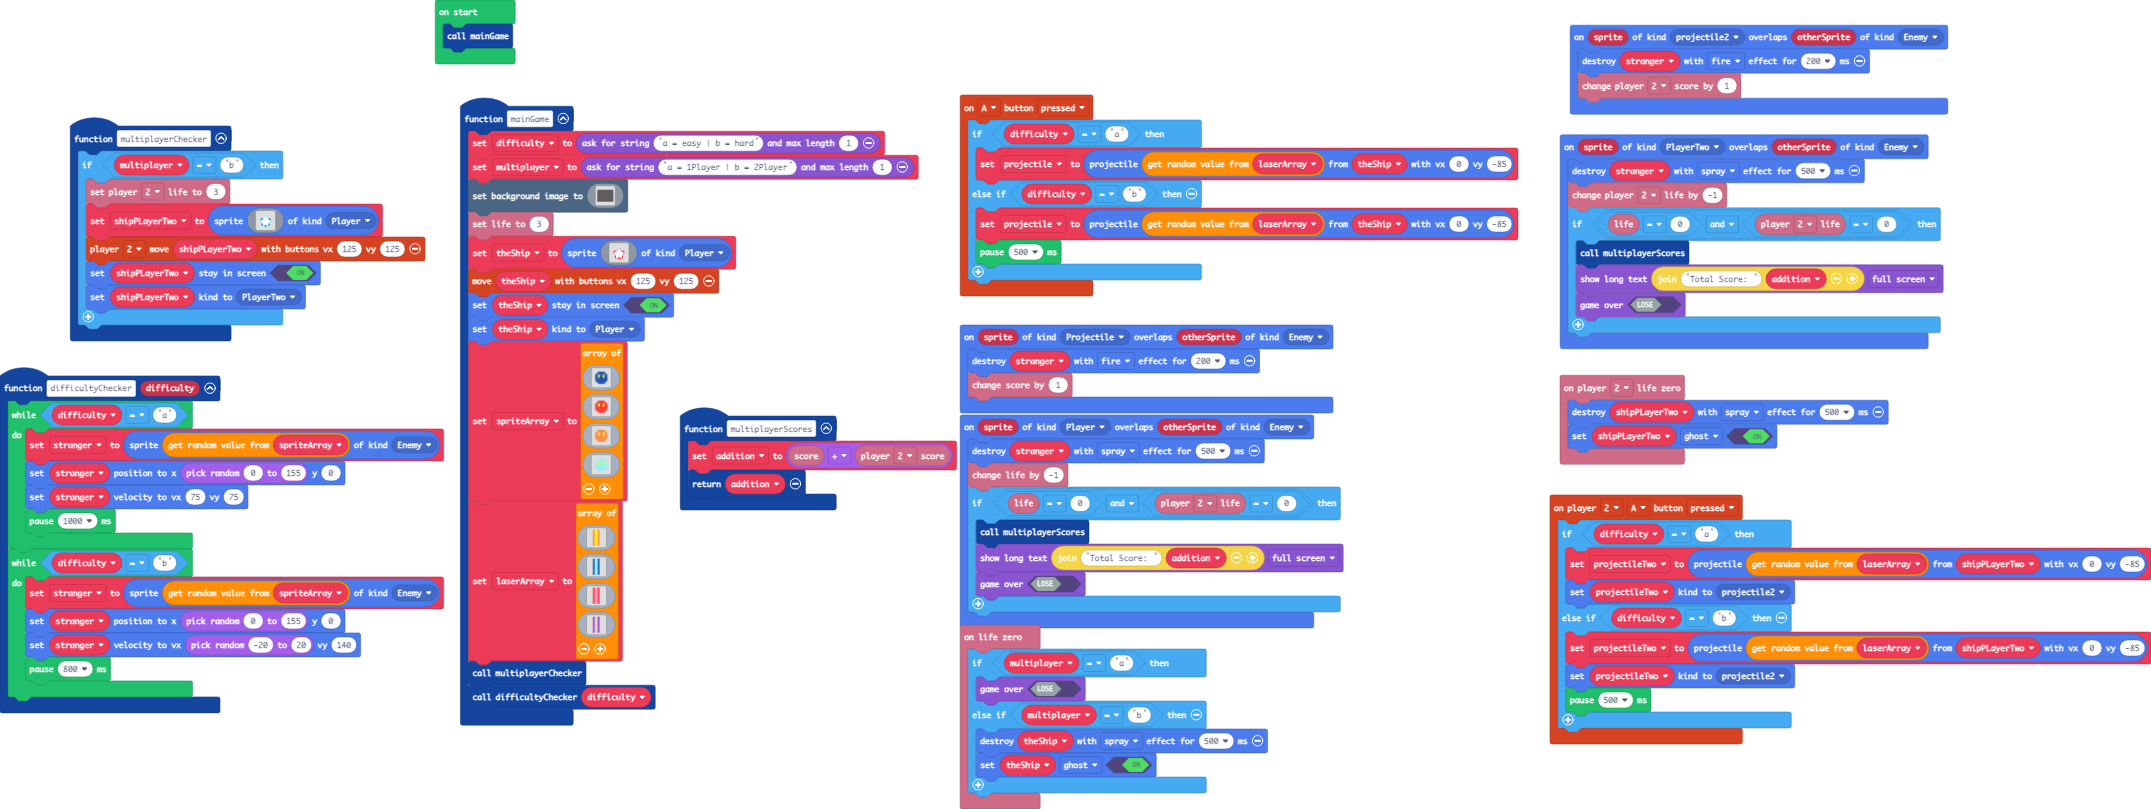
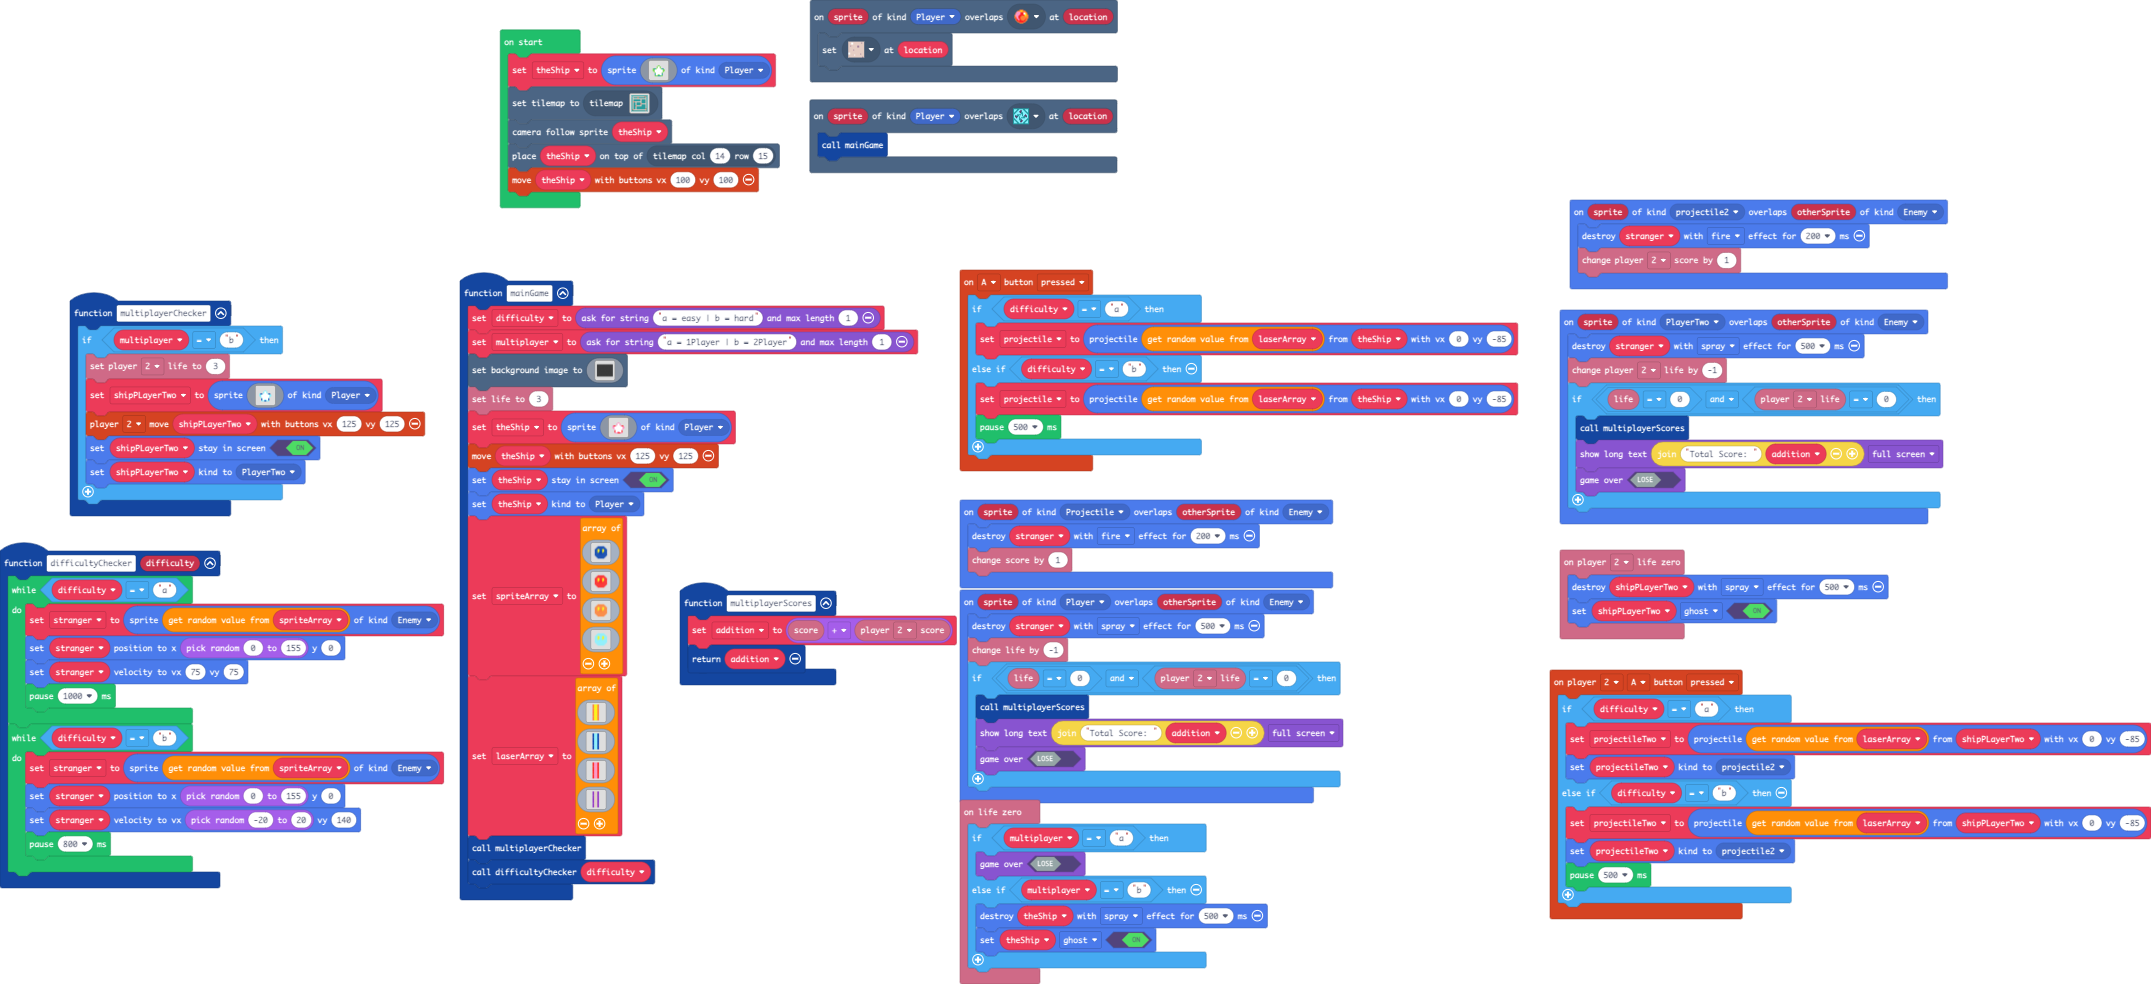
Update pxt.json, main.blocks, main.ts, tilemap.g.jres, tilemap.g.ts

diff --git a/tilemap.g.ts b/tilemap.g.ts
@@ -1,0 +1,39 @@
+// Auto-generated code. Do not edit.
+namespace myTiles {
+    //% fixedInstance jres blockIdentity=images._tile
+    export const transparency16 = image.ofBuffer(hex``);
+
+    helpers._registerFactory("tilemap", function(name: string) {
+        switch(helpers.stringTrim(name)) {
+            case "level1":
+            case "level1":return tiles.createTilemap(hex`1000100001010101010101010101010101010101030202020202020202020202020502010102010101010501010101010101020101020202020202020202020202020201010201010101010101020101010102010102010101010101010201010101020101020502020202020202010101010201010201010201010101020101010102010102010102010101010502020202020101020101020101010102010101010201010201010502020202020101010102010102010102010101010101010101020101020101020101010101010101010201010201010201010101010101010105010105020202020202020202020202020101010101010101010101010101010401`, img`
+2 2 2 2 2 2 2 2 2 2 2 2 2 2 2 2 
+. . . . . . . . . . . . . . . 2 
+2 . 2 2 2 2 . 2 2 2 2 2 2 2 . 2 
+2 . . . . . . . . . . . . . . 2 
+2 . 2 2 2 2 2 2 2 . 2 2 2 2 . 2 
+2 . 2 2 2 2 2 2 2 . 2 2 2 2 . 2 
+2 . . . . . . . . . 2 2 2 2 . 2 
+2 . 2 2 . 2 2 2 2 . 2 2 2 2 . 2 
+2 . 2 2 . 2 2 2 2 . . . . . . 2 
+2 . 2 2 . 2 2 2 2 . 2 2 2 2 . 2 
+2 . 2 2 . . . . . . 2 2 2 2 . 2 
+2 . 2 2 . 2 2 2 2 2 2 2 2 2 . 2 
+2 . 2 2 . 2 2 2 2 2 2 2 2 2 . 2 
+2 . 2 2 . 2 2 2 2 2 2 2 2 2 . 2 
+2 . . . . . . . . . . . . . . 2 
+2 2 2 2 2 2 2 2 2 2 2 2 2 2 . 2 
+`, [myTiles.transparency16,sprites.castle.tileDarkGrass3,sprites.castle.tilePath5,sprites.dungeon.collectibleInsignia,sprites.dungeon.doorLockedSouth,sprites.dungeon.collectibleRedCrystal], TileScale.Sixteen);
+        }
+        return null;
+    })
+
+    helpers._registerFactory("tile", function(name: string) {
+        switch(helpers.stringTrim(name)) {
+            case "transparency16":return transparency16;
+        }
+        return null;
+    })
+
+}
+// Auto-generated code. Do not edit.

diff --git a/main.ts b/main.ts
@@ -367,9 +367,15 @@ info.player2.onLifeZero(function () {
     sprites.destroy(shipPLayerTwo, effects.spray, 500)
     shipPLayerTwo.setFlag(SpriteFlag.Ghost, true)
 })
+scene.onOverlapTile(SpriteKind.Player, sprites.dungeon.collectibleRedCrystal, function (sprite, location) {
+    tiles.setTileAt(location, sprites.castle.tilePath5)
+})
 sprites.onOverlap(SpriteKind.Projectile, SpriteKind.Enemy, function (sprite, otherSprite) {
     sprites.destroy(stranger, effects.fire, 200)
     info.changeScoreBy(1)
+})
+scene.onOverlapTile(SpriteKind.Player, sprites.dungeon.collectibleInsignia, function (sprite, location) {
+    mainGame()
 })
 sprites.onOverlap(SpriteKind.Player, SpriteKind.Enemy, function (sprite, otherSprite) {
     sprites.destroy(stranger, effects.spray, 500)
@@ -385,9 +391,30 @@ let multiplayer2 = ""
 let stranger: Sprite = null
 let shipPLayerTwo: Sprite = null
 let projectileTwo: Sprite = null
-let theShip: Sprite = null
 let laserArray: Image[] = []
 let projectile: Sprite = null
 let difficulty = ""
 let addition = 0
-mainGame()
+let theShip: Sprite = null
+theShip = sprites.create(img`
+    . . . . . . . . . . . . . . . . 
+    . . . . . . . . . . . . . . . . 
+    . . . . . . . . . . . . . . . . 
+    . . . . . . . 7 7 . . . . . . . 
+    . . . . . . 7 1 1 7 . . . . . . 
+    . . . . . . 7 1 1 7 . . . . . . 
+    . . 7 6 6 7 1 1 1 1 7 6 6 . . . 
+    . . 7 7 1 1 1 1 1 1 1 1 7 7 . . 
+    . . 7 7 1 1 1 1 1 1 1 1 7 7 . . 
+    . . . 7 1 1 1 1 1 1 1 1 7 . . . 
+    . . . . 7 1 1 1 1 1 1 7 . . . . 
+    . . . . 6 1 1 1 1 1 1 6 . . . . 
+    . . . . 6 1 1 7 7 1 1 6 . . . . 
+    . . . . 7 7 7 6 6 6 7 7 . . . . 
+    . . . . . . . . . . . . . . . . 
+    . . . . . . . . . . . . . . . . 
+    `, SpriteKind.Player)
+tiles.setCurrentTilemap(tilemap`level1`)
+scene.cameraFollowSprite(theShip)
+tiles.placeOnTile(theShip, tiles.getTileLocation(14, 15))
+controller.moveSprite(theShip, 100, 100)
